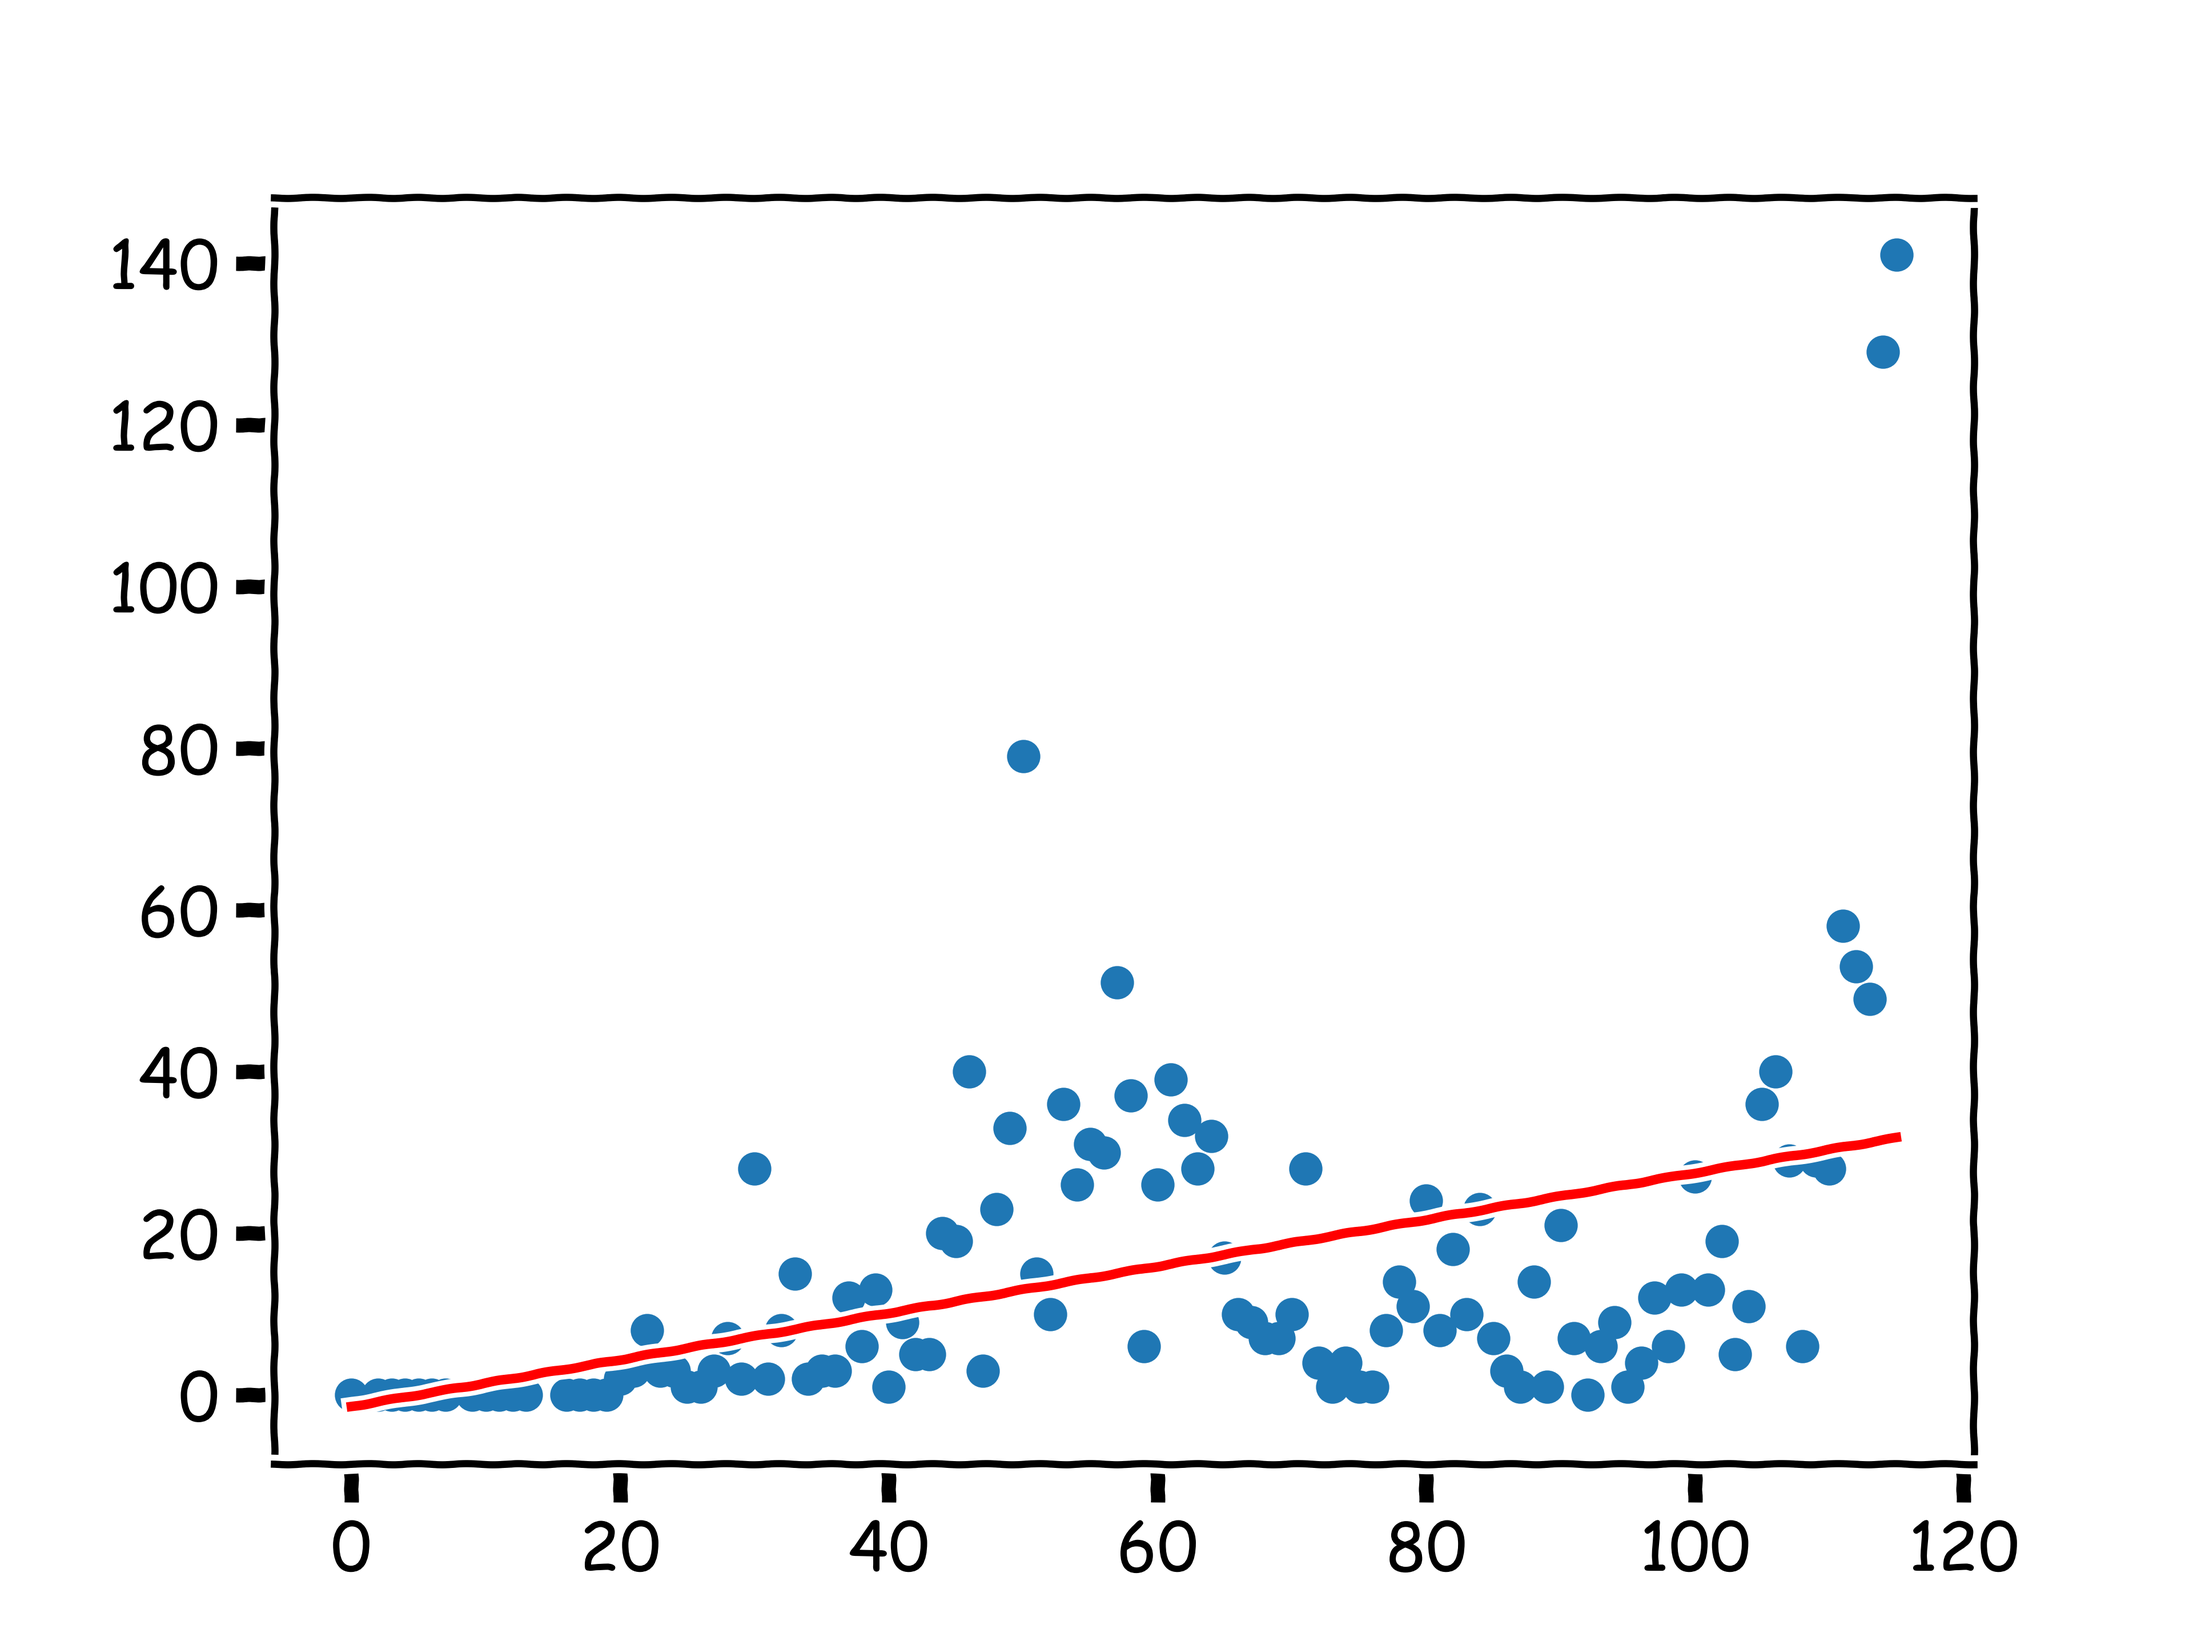
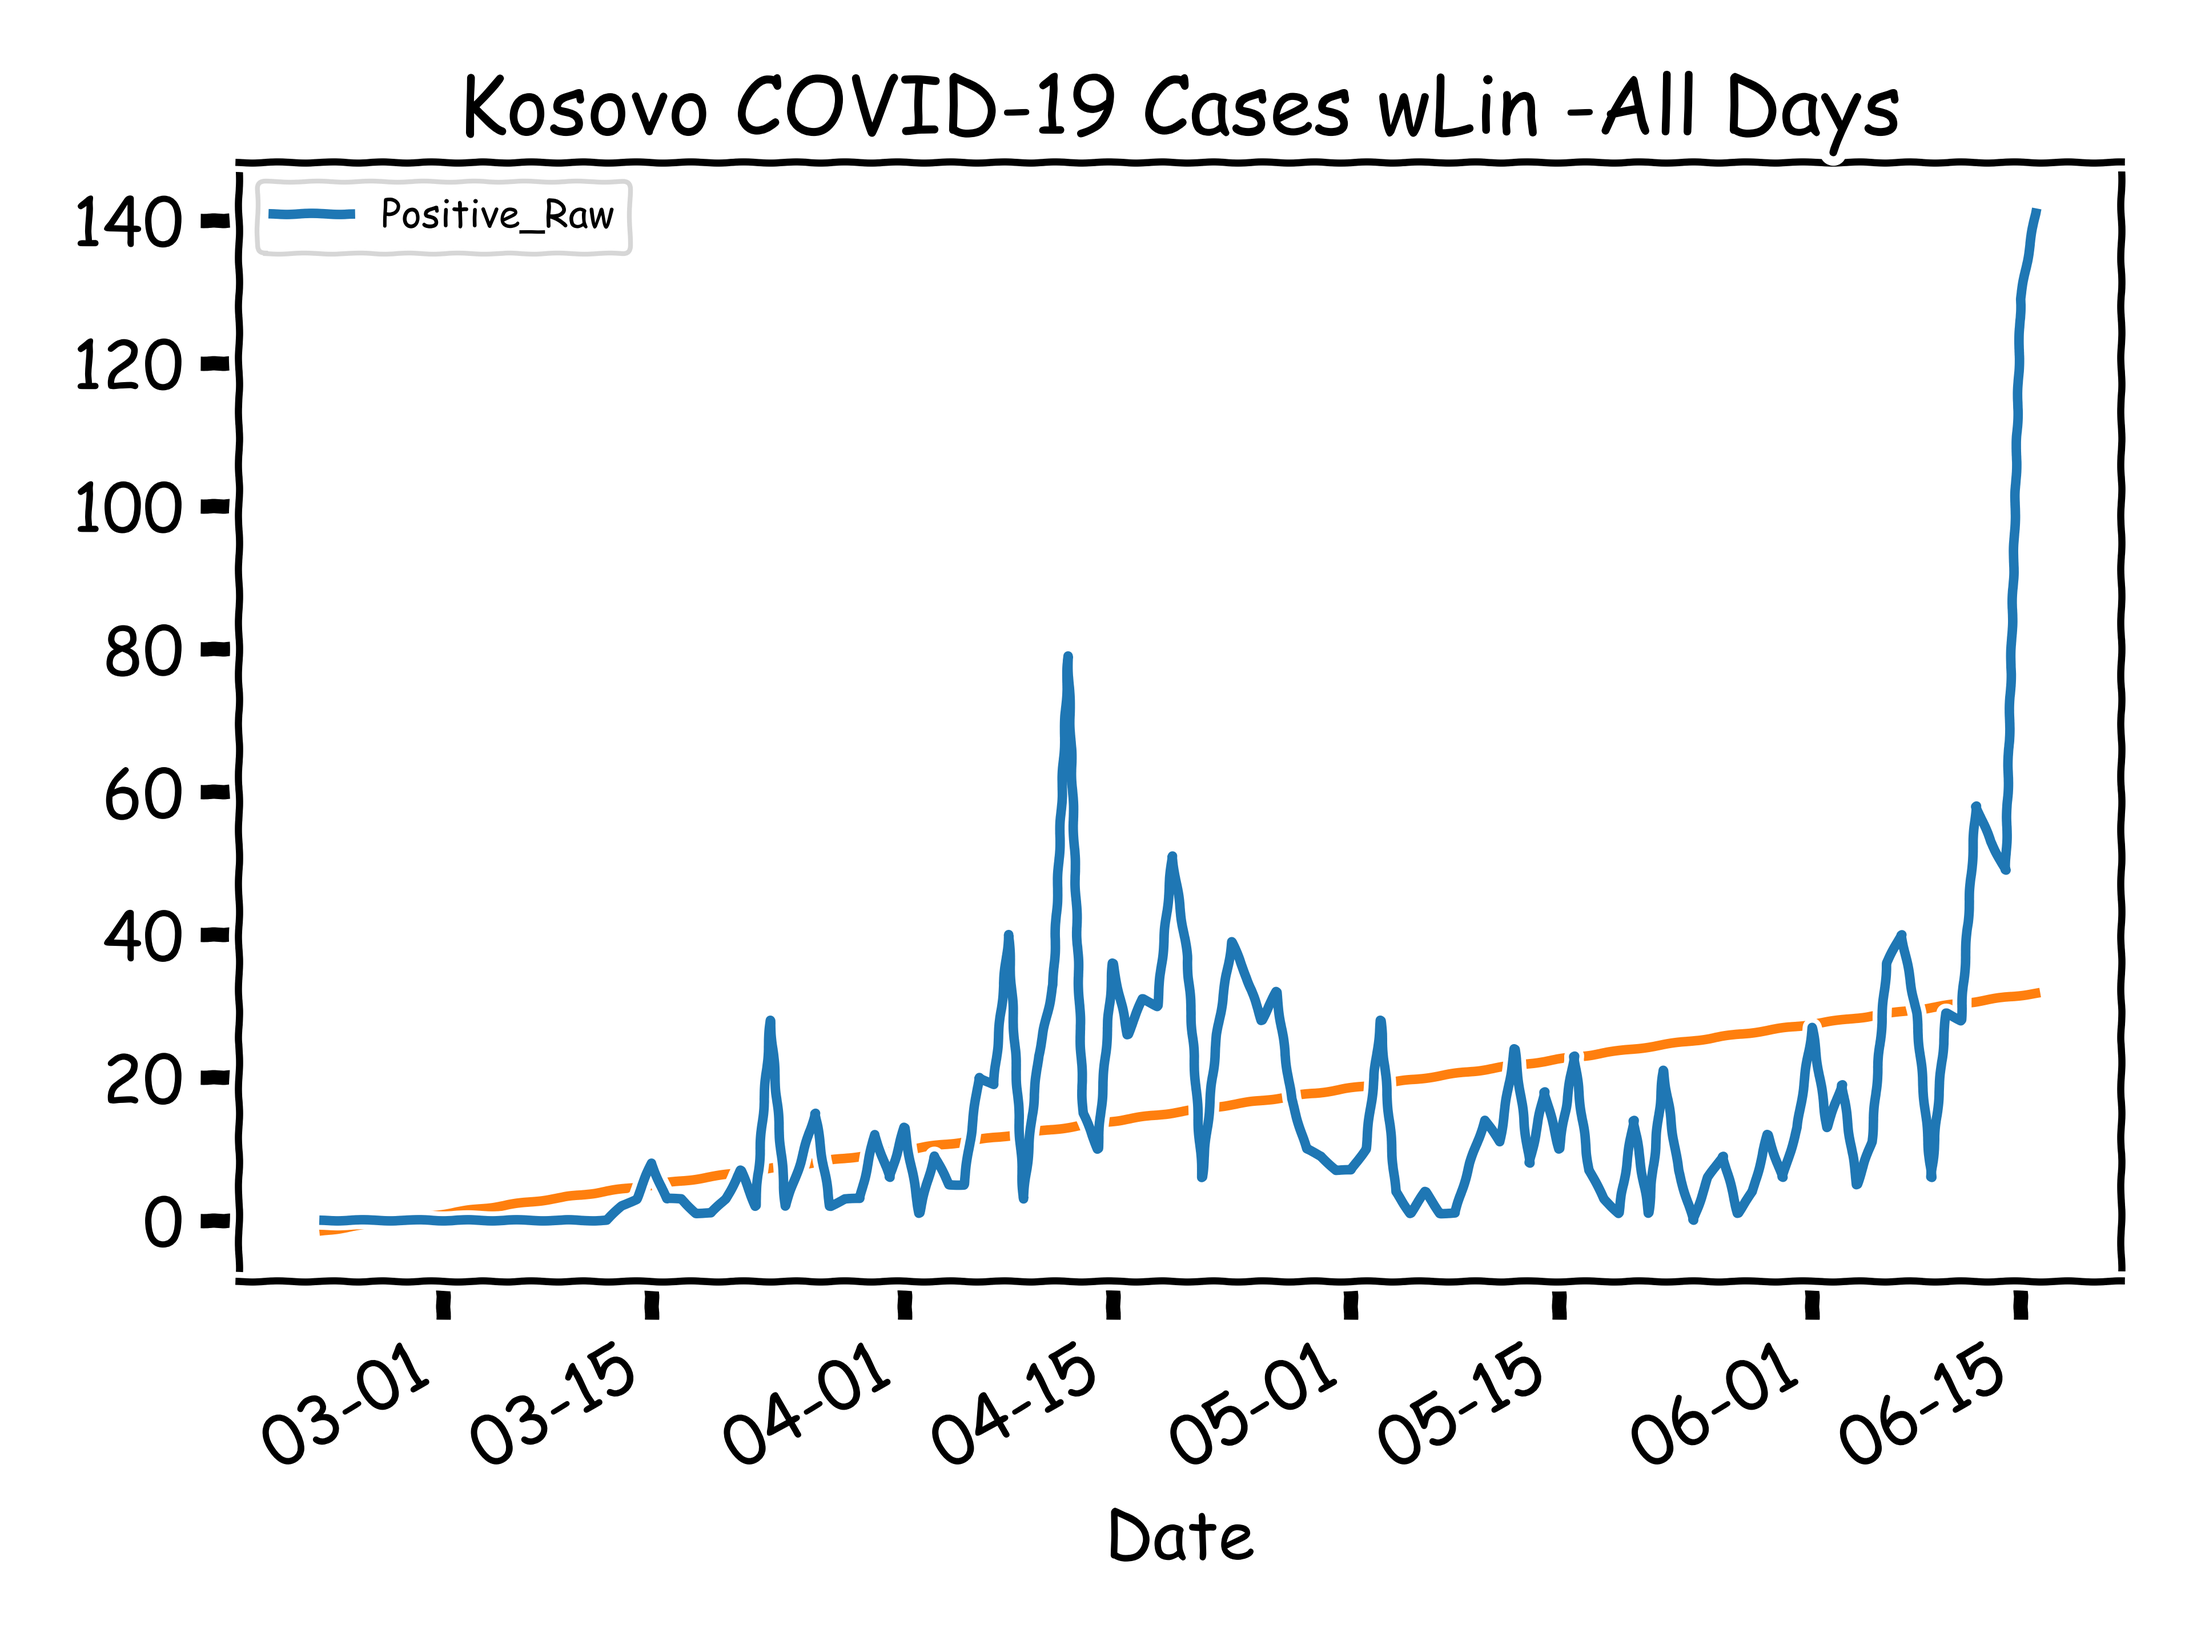
Daily push for 20200618

Changed region(s): [[0.0312, 0.0312, 0.9688, 0.9688]]

diff --git a/covid.py b/covid.py
@@ -70,15 +70,16 @@ with pandas.ExcelWriter('{0}_Kosovo_COVID.xlsx'.format(date)) as writer:
 
 with plt.xkcd():
 
-    CPDelta_df = COVID_Raw[['Positive_Raw']]
-    CPDelta_df['days_from_start'] = (CPDelta_df.index - CPDelta_df.index[0]).days
-    X = CPDelta_df.days_from_start.values.reshape(-1, 1)  # values converts it into a numpy array
-    Y = CPDelta_df.Positive_Raw.values.reshape(-1, 1)  # -1 means that calculate the dimension of rows, but have 1 column
+    deltaFig = COVID_Raw.Positive_Raw.plot(title='Kosovo COVID-19 Cases wLin -All Days', label='Positive Cases', zorder=10)
+    Y = COVID_Raw.Positive_Raw.values.reshape(-1, 1)
+    X = COVID_Raw.index.map(datetime.datetime.toordinal).values.reshape(-1, 1)
     linear_regressor = LinearRegression()  # create object for the class
     linear_regressor.fit(X, Y)  # perform linear regression
     Y_pred = linear_regressor.predict(X)  # make predictions
-    plt.scatter(X, Y)
-    plt.plot(X, Y_pred, color='red')
+    deltaFig.xaxis.set_major_formatter(tickFormatter)
+    deltaFig.legend(fontsize='xx-small')
+    deltaFig.figure.tight_layout()
+    plt.plot(X, Y_pred, label='Projected Regression')
     plt.savefig('Kosovo COVID-19 Raw wLinReg -All Days Plot.png', dpi=600)
 
     CPDelta_df = COVID_Raw[['Positive_Raw']]

diff --git a/LinTest.py b/LinTest.py
@@ -1,3 +1,4 @@
+import datetime
 import numpy as np
 import matplotlib.pyplot as plt  # To visualize
 import pandas  # To read data
@@ -5,12 +6,12 @@ from sklearn.linear_model import LinearRegression
 
 COVID_Raw = pandas.read_csv("./Data/COVID_Raw.csv")
 COVID_Raw['Date'] = pandas.to_datetime(COVID_Raw['Date'])
-X = COVID_Raw.index.values.reshape(-1, 1)  # values converts it into a numpy array
-Y = COVID_Raw.Positive_Raw.values.reshape(-1, 1)  # -1 means that calculate the dimension of rows, but have 1 column
+COVID_Raw = COVID_Raw.set_index('Date')
+deltaFig = COVID_Raw.Positive_Raw.plot(title='Kosovo COVID-19 Cases wLin -All Days')
+Y = COVID_Raw.Positive_Raw.values.reshape(-1, 1)
+X = COVID_Raw.index.map(datetime.datetime.toordinal).values.reshape(-1, 1)
 linear_regressor = LinearRegression()  # create object for the class
 linear_regressor.fit(X, Y)  # perform linear regression
 Y_pred = linear_regressor.predict(X)  # make predictions
-
-plt.scatter(X, Y)
 plt.plot(X, Y_pred, color='red')
 plt.show()
